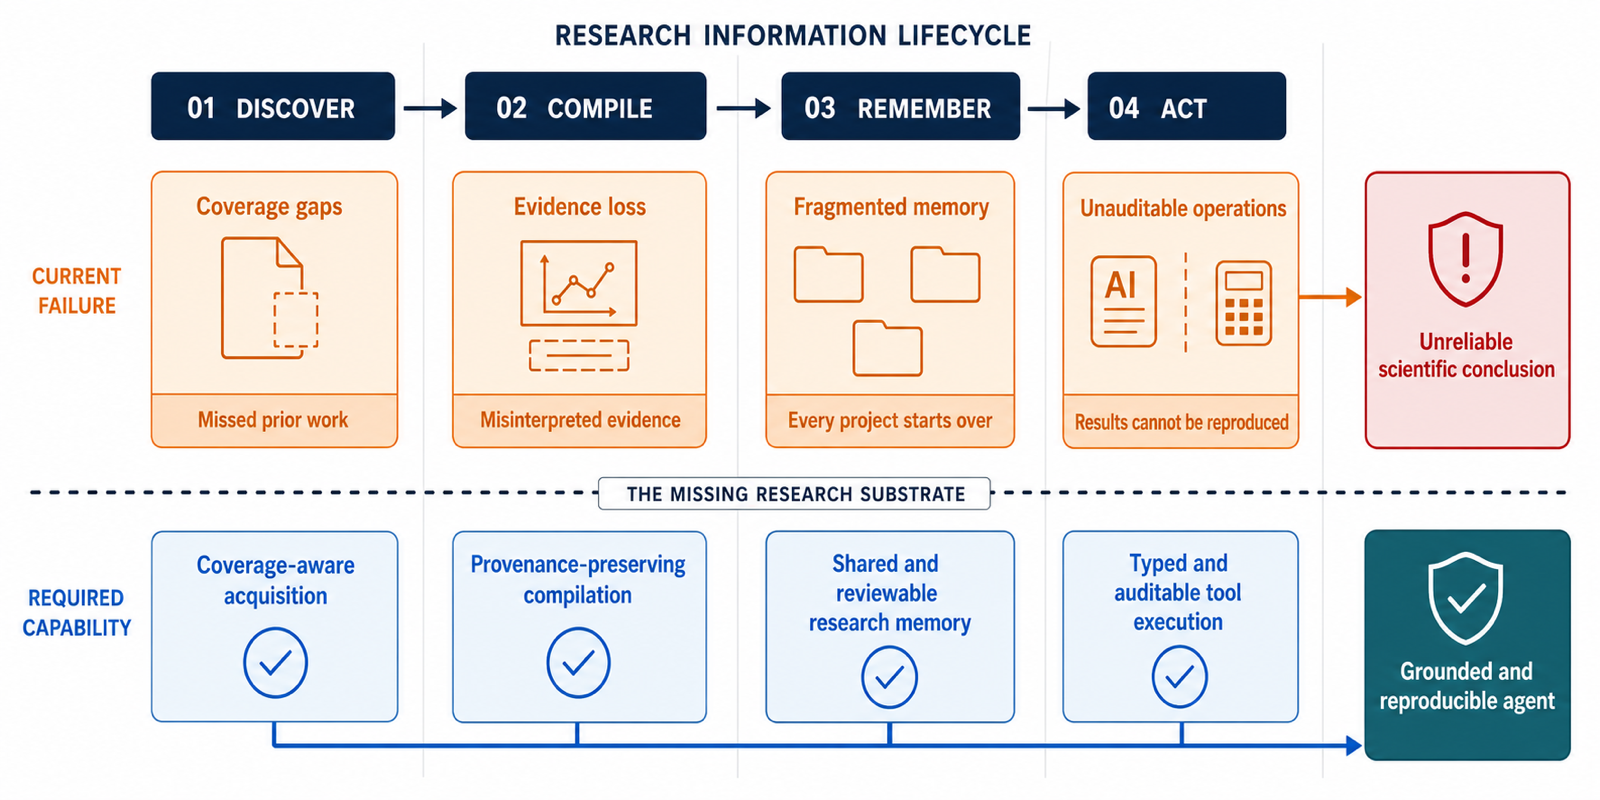
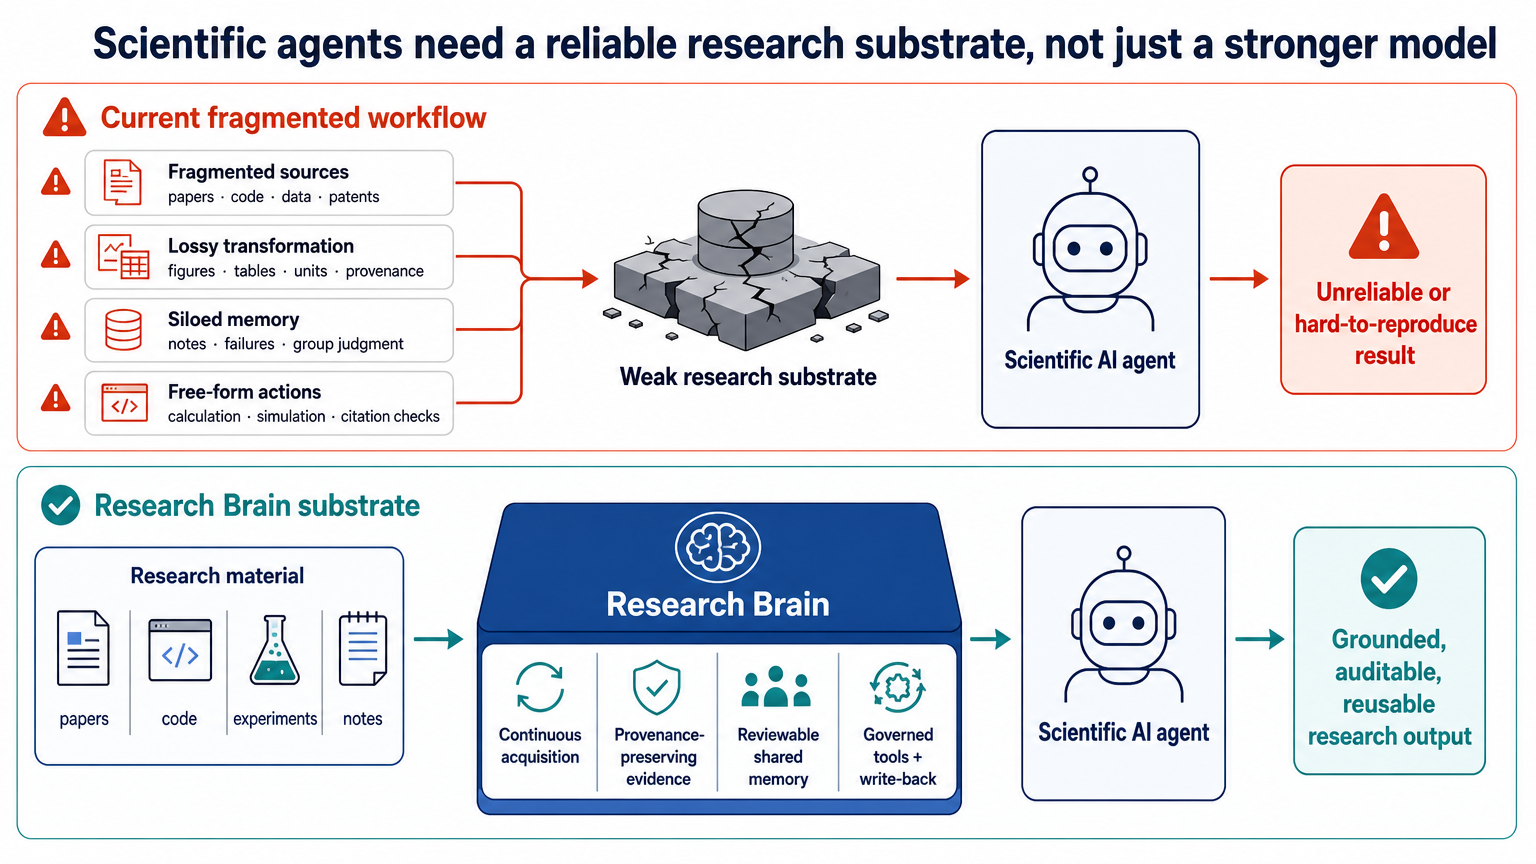
Update Autoresearch subpage with latest content

diff --git a/autoresearch/styles.css b/autoresearch/styles.css
@@ -2759,191 +2759,4 @@ blockquote {
 }
 
 .status-strip {
-  margin-top: 18px;
-  padding: 22px 26px;
-  color: white;
-  background: linear-gradient(120deg, var(--navy-950), var(--navy-800));
-  border-radius: 18px;
-}
-
-.status-strip .status-copy h2 {
-  margin-top: 7px;
-  font-size: clamp(26px, 2.7vw, 35px);
-}
-
-.status-strip .status-copy p {
-  font-size: 11px;
-}
-
-@media (max-width: 1120px) {
-  .agent-loop {
-    grid-template-columns: repeat(3, 1fr);
-  }
-
-  .loop-core,
-  .role-legend {
-    grid-column: 1 / -1;
-  }
-}
-
-@media (max-width: 920px) {
-  .why-intro {
-    grid-template-columns: 1fr;
-    gap: 10px;
-  }
-
-  .agent-loop {
-    grid-template-columns: repeat(2, 1fr);
-  }
-
-  .loop-core,
-  .role-legend {
-    grid-column: 1 / -1;
-  }
-
-  .compact-heading {
-    grid-template-columns: 1fr;
-    gap: 9px;
-  }
-
-  .compact-heading .eyebrow,
-  .compact-heading h2,
-  .compact-heading p {
-    grid-column: 1;
-    grid-row: auto;
-  }
-
-  .status-strip {
-    padding: 27px;
-  }
-}
-
-@media (max-width: 720px) {
-  .container {
-    width: min(100% - 32px, 620px);
-  }
-
-  .hero {
-    padding-top: 94px;
-    padding-bottom: 40px;
-  }
-
-  .hero-map {
-    min-height: auto;
-  }
-
-  .hero-map-image {
-    padding: 6px;
-  }
-
-  .hero-map-image img {
-    border-radius: 16px;
-  }
-
-  .why-section {
-    padding: 28px 0;
-  }
-
-  .substrate-figure {
-    padding: 5px;
-    border-radius: 12px;
-  }
-
-  .substrate-figure img {
-    border-radius: 8px;
-  }
-
-  .substrate-figure figcaption {
-    display: block;
-  }
-
-  .workflow-figure {
-    padding: 5px;
-    border-radius: 12px;
-  }
-
-  .workflow-figure img {
-    border-radius: 8px;
-  }
-
-  .workflow-figure figcaption {
-    display: block;
-  }
-
-  .agent-architecture-figure {
-    padding: 5px;
-    border-radius: 12px;
-  }
-
-  .agent-architecture-figure img {
-    border-radius: 8px;
-  }
-
-  .agent-architecture-figure figcaption {
-    display: block;
-  }
-
-  .deployment-image-figure {
-    padding: 5px;
-    border-radius: 12px;
-  }
-
-  .deployment-image-figure img {
-    border-radius: 8px;
-  }
-
-  .deployment-image-figure figcaption {
-    display: block;
-  }
-
-  .foundation-section,
-  .agent-section,
-  .deployment-section {
-    padding-top: 45px;
-    padding-bottom: 45px;
-  }
-
-  .agent-loop {
-    grid-template-columns: 1fr;
-  }
-
-  .loop-core,
-  .role-legend {
-    grid-column: 1;
-  }
-
-  .loop-node,
-  .node-objective,
-  .node-retrieve,
-  .node-propose,
-  .node-tools,
-  .node-approval,
-  .node-writeback {
-    min-height: 0;
-    display: grid;
-    grid-template-columns: 34px 1fr;
-  }
-
-  .loop-node .loop-index {
-    margin-bottom: 0;
-  }
-
-  .loop-core {
-    display: flex;
-    align-items: flex-start;
-    flex-direction: column;
-  }
-
-  .embedded-systems {
-    margin-top: 20px;
-    padding: 16px;
-  }
-
-  .deployment-map {
-    padding: 18px 12px;
-  }
-
-  .status-strip {
-    padding: 19px 17px;
-  }
-}
+  margin-top:

diff --git a/autoresearch/index.html b/autoresearch/index.html
@@ -75,17 +75,17 @@
       <section id="why" class="section why-section">
         <div class="container">
           <div class="why-intro reveal">
-            <div class="eyebrow"><span></span>The missing substrate</div>
-            <h2>A stronger model cannot repair research information that is missing, damaged, or forgotten.</h2>
+            <div class="eyebrow"><span></span>Reliable research substrate</div>
+            <h2>Scientific agents need a reliable research substrate, not just a stronger model.</h2>
           </div>
 
           <figure class="substrate-figure reveal">
             <a href="./assets/missing-research-substrate.png" target="_blank" rel="noreferrer" aria-label="Open the missing research substrate diagram at full size">
               <img
                 src="./assets/missing-research-substrate.png"
-                alt="A four-column research information lifecycle. Discover, compile, remember, and act each have a corresponding failure and required capability. Coverage gaps, evidence loss, fragmented memory, and unauditable operations lead to unreliable scientific conclusions. Coverage-aware acquisition, provenance-preserving compilation, shared reviewable memory, and auditable tools support a grounded and reproducible agent."
-                width="1600"
-                height="800"
+                alt="A two-lane comparison diagram. The current fragmented workflow has fragmented sources, lossy transformation, siloed memory, and free-form actions flowing into a weak research substrate, then a scientific AI agent, then an unreliable or hard-to-reproduce result. The Research Brain substrate lane turns research material into continuous acquisition, provenance-preserving evidence, reviewable shared memory, and governed tools with write-back, producing grounded, auditable, reusable research output."
+                width="1536"
+                height="864"
                 loading="lazy"
               />
             </a>